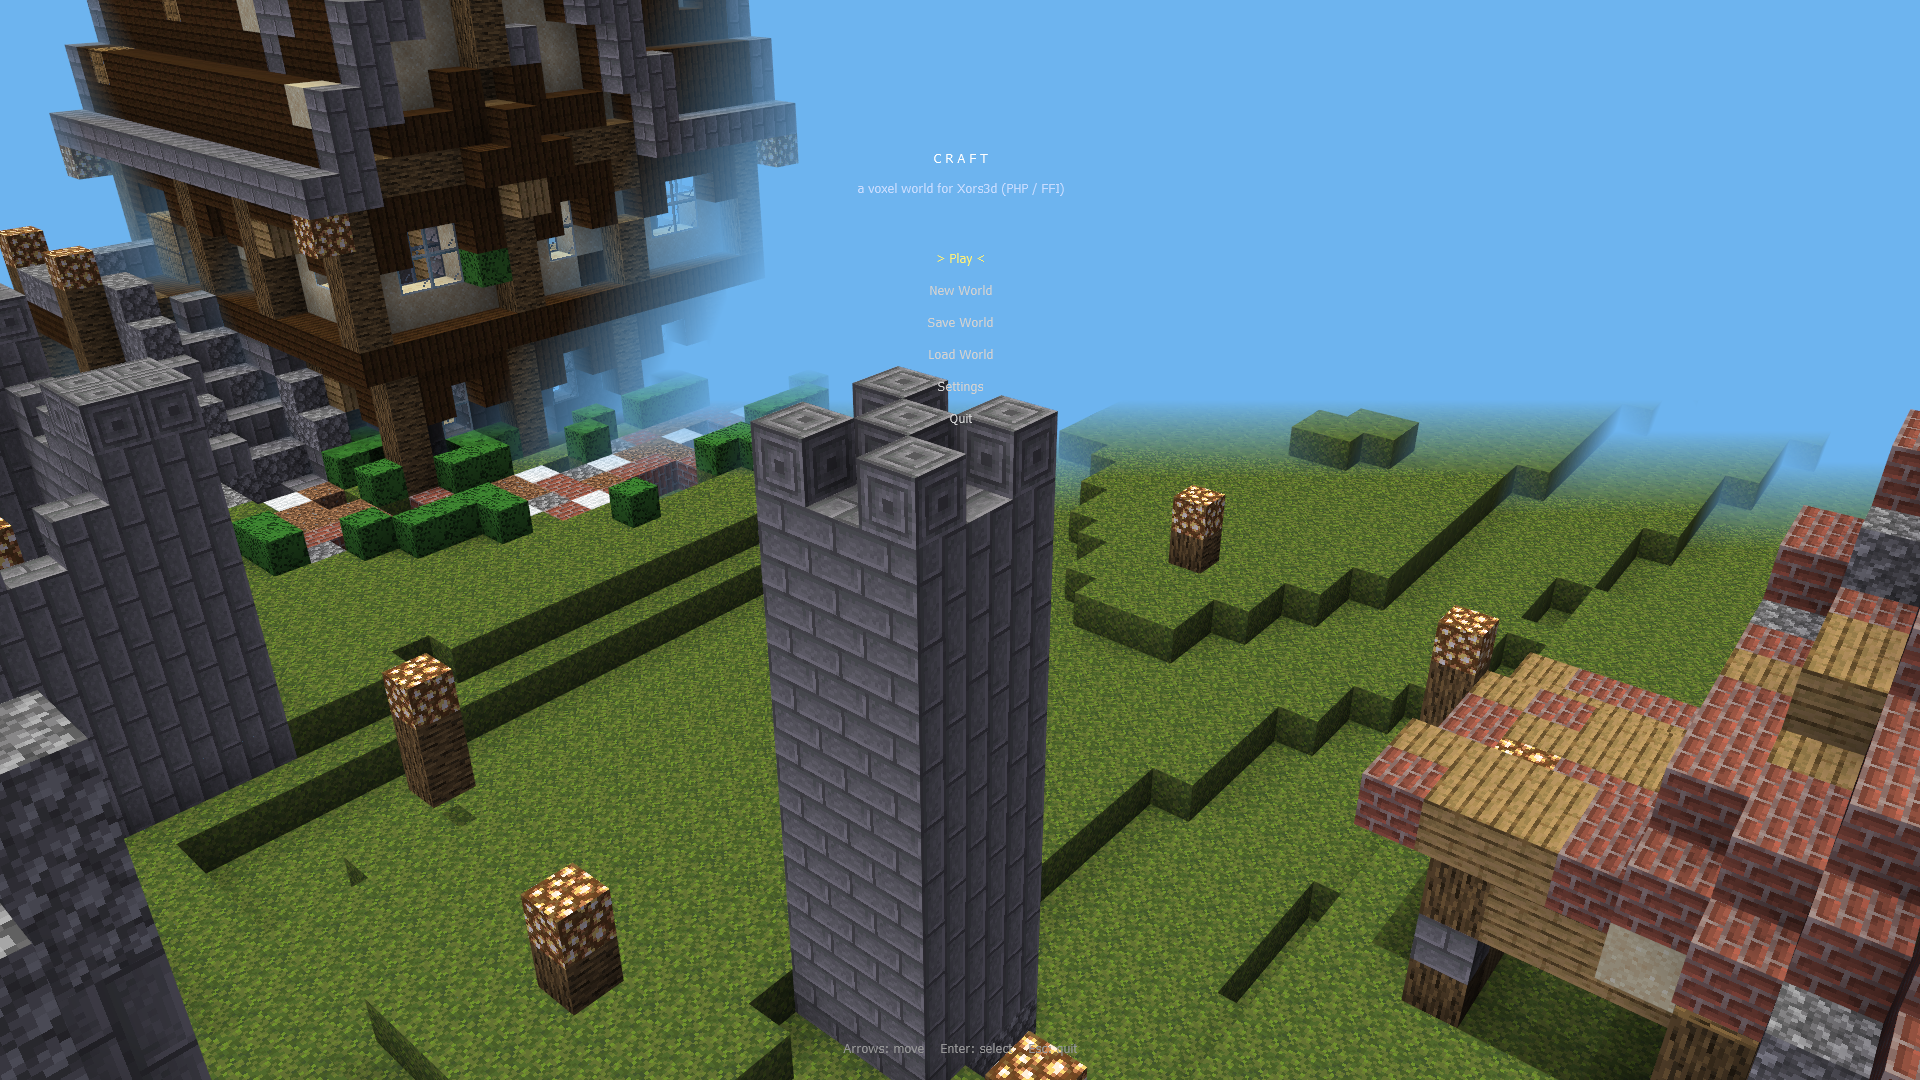
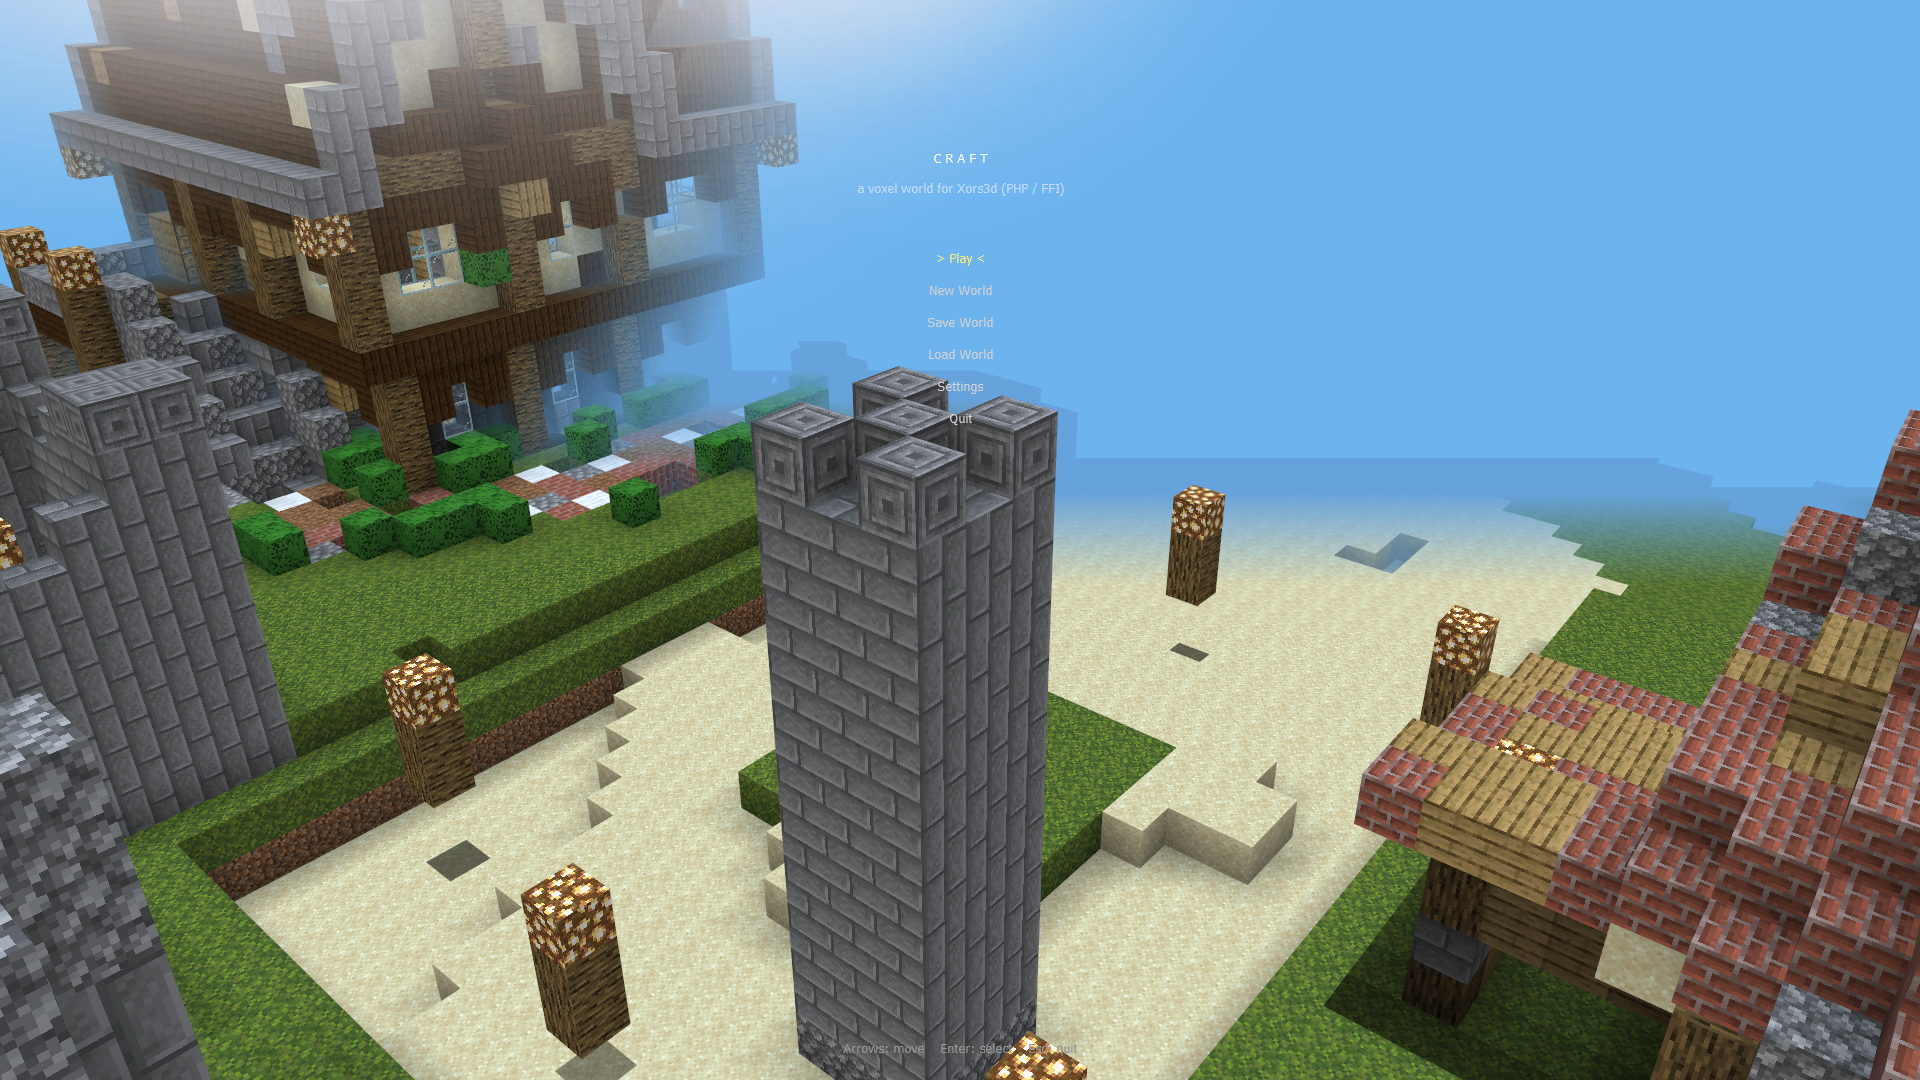
Add per-pixel block shader (Blocks.fx): soft half-Lambert sun + hemispheric ambient + depth fog, with GPU-validation fallback and toggle

diff --git a/xors3d-php/src/Controllers/Craft/BlockShader.php b/xors3d-php/src/Controllers/Craft/BlockShader.php
@@ -1,0 +1,110 @@
+<?php
+
+declare(strict_types=1);
+
+namespace Xors3D\Controllers\Craft;
+
+use Xors3D\Ffi\Constants;
+use Xors3D\Ffi\Engine;
+
+/**
+ * Per-pixel block shader (assets/shaders/Blocks.fx) for the chunk meshes: soft
+ * half-Lambert directional sun + hemispheric ambient + depth fog, multiplied by the
+ * baked vertex colour (ambient occlusion + skylight + torch glow). Gives the voxels
+ * a soft, lit look instead of flat vertex colour.
+ *
+ * Falls back to fixed-function FX_VERTEXCOLOR if the GPU can't run the technique
+ * (validated once at setup) or the player turns it off. Mixed into MinecraftController.
+ */
+trait BlockShader
+{
+    /** Load + validate the block shader; sets $this->blockOK / $this->blockShade. */
+    private function setupBlockFX(Engine $e): void
+    {
+        $this->blockOK = false;
+        $fx = dirname(__DIR__, 3) . '/assets/shaders/Blocks.fx';
+        if (is_file($fx)) {
+            $this->blockFX = $e->xLoadFXFile($fx);
+            if ($this->blockFX !== 0 && $e->xValidateEffectTechnique($this->blockFX, 'Block')) {
+                $this->blockOK = true;
+            }
+        }
+        $this->refreshBlockShade();
+        $this->computeBlockFXConsts();
+    }
+
+    /** Whether the shader is actually used right now (supported AND enabled). */
+    private function refreshBlockShade(): void
+    {
+        $this->blockShade = $this->blockOK && (int) ($this->settings['blockfx'] ?? 1) === 1;
+    }
+
+    /** Attach the shader to a freshly built chunk mesh (semantics + current constants). */
+    private function attachBlockFX(int $mesh): void
+    {
+        $e = $this->e;
+        $e->xSetEntityEffect($mesh, $this->blockFX);
+        $e->xSetEffectTechnique($mesh, 'Block');
+        $e->xSetEffectMatrixSemantic($mesh, 'MatWorldViewProj', Constants::WORLDVIEWPROJ);
+        $e->xSetEffectMatrixSemantic($mesh, 'MatWorld', Constants::WORLD);
+        $this->applyBlockFXConsts($mesh);
+    }
+
+    /** Push the cached lighting constants onto one chunk mesh. */
+    private function applyBlockFXConsts(int $mesh): void
+    {
+        $e = $this->e; $b = $this->bfx;
+        if ($b === []) { $this->computeBlockFXConsts(); $b = $this->bfx; }
+        $e->xSetEffectVector($mesh, 'SunDir', $b['sun'][0], $b['sun'][1], $b['sun'][2]);
+        $e->xSetEffectVector($mesh, 'SunClr', $b['sunc'][0], $b['sunc'][1], $b['sunc'][2]);
+        $e->xSetEffectVector($mesh, 'SkyAmb', $b['sky'][0], $b['sky'][1], $b['sky'][2]);
+        $e->xSetEffectVector($mesh, 'GndAmb', $b['gnd'][0], $b['gnd'][1], $b['gnd'][2]);
+        $e->xSetEffectVector($mesh, 'FogClr', $b['fog'][0], $b['fog'][1], $b['fog'][2]);
+        $e->xSetEffectVector($mesh, 'FogRange', $b['fogr'][0], $b['fogr'][1], 0.0);
+    }
+
+    /** Recompute sun direction / day-night colours / fog from the current sky state. */
+    private function computeBlockFXConsts(): void
+    {
+        $e = $this->e;
+        // direction TO the sun = opposite of the directional light's forward vector
+        $e->xTFormVector(0.0, 0.0, 1.0, $this->sun, 0);
+        $fx = $e->xTFormedX(); $fy = $e->xTFormedY(); $fz = $e->xTFormedZ();
+        $len = sqrt($fx * $fx + $fy * $fy + $fz * $fz) ?: 1.0;
+        $sun = [-$fx / $len, -$fy / $len, -$fz / $len];
+
+        $d = max(0.0, min(1.0, $this->dayF)); // 0 night .. 1 noon
+        $lerp = static fn (array $a, array $b, float $t): array => [
+            $a[0] + ($b[0] - $a[0]) * $t, $a[1] + ($b[1] - $a[1]) * $t, $a[2] + ($b[2] - $a[2]) * $t,
+        ];
+        // wetness (overcast) mutes the sun and greys the ambient a little
+        $wet = 1.0 - 0.45 * max(0.0, min(1.0, $this->wetness));
+
+        $sunc = $lerp([0.16, 0.19, 0.30], [1.0, 0.95, 0.82], $d);
+        $sunc = [$sunc[0] * 0.62 * $wet, $sunc[1] * 0.62 * $wet, $sunc[2] * 0.62 * $wet];
+        $sky  = $lerp([0.13, 0.15, 0.23], [0.54, 0.62, 0.74], $d);
+        $gnd  = $lerp([0.08, 0.09, 0.13], [0.42, 0.39, 0.34], $d);
+        $fog  = $lerp([0.06, 0.08, 0.16], [0.45, 0.72, 0.96], $d);
+
+        $dist = (float) ((int) $this->settings['renderDist']) * self::BLOCK;
+        $this->bfx = [
+            'sun' => $sun, 'sunc' => $sunc, 'sky' => $sky, 'gnd' => $gnd,
+            'fog' => $fog, 'fogr' => [$dist * 0.85, $dist * 0.98],
+        ];
+    }
+
+    /**
+     * Refresh the (slowly changing) day/night constants on all visible chunk meshes.
+     * Throttled - the values drift with the sun, so a few times a second is plenty and
+     * keeps the per-entity constant writes off the hot path.
+     */
+    private function updateBlockFX(): void
+    {
+        if (!$this->blockShade) { return; }
+        $now = $this->e->xMillisecs();
+        if ($this->bfxMs !== 0 && $now - $this->bfxMs < 120 && $now >= $this->bfxMs) { return; }
+        $this->bfxMs = $now;
+        $this->computeBlockFXConsts();
+        foreach ($this->chunkMesh as $mesh) { $this->applyBlockFXConsts($mesh); }
+    }
+}

diff --git a/xors3d-php/src/Controllers/MinecraftController.php b/xors3d-php/src/Controllers/MinecraftController.php
@@ -6,6 +6,7 @@ namespace Xors3D\Controllers;
 
 use Xors3D\Controllers\Craft\Assets;
 use Xors3D\Controllers\Craft\Bed;
+use Xors3D\Controllers\Craft\BlockShader;
 use Xors3D\Controllers\Craft\Chunks;
 use Xors3D\Controllers\Craft\Effects;
 use Xors3D\Controllers\Craft\Furnace;
@@ -62,6 +63,7 @@ final class MinecraftController extends Controller
     use Bed;        // sleep (B) at night near a bed to skip to morning (src/Controllers/Craft/)
     use Furnace;    // smelting menu (sand->glass etc) with fuel (src/Controllers/Craft/)
     use Minimap;    // top-right surface minimap (src/Controllers/Craft/)
+    use BlockShader; // per-pixel soft block lighting shader (src/Controllers/Craft/)
 
     public const TITLE = 'Minecraft-like game (menu, walk, water, sound)';
 
@@ -165,7 +167,7 @@ final class MinecraftController extends Controller
         'width' => 1024, 'height' => 768, 'vsync' => 1,
         'sensitivity' => 0.5, 'invertY' => 0, 'fov' => 1.0,
         'fog' => 1, 'daynight' => 1, 'volume' => 0.8, 'renderDist' => 48,
-        'bloom' => 0, 'godrays' => 1, 'weather' => 1, 'survival' => 1, 'minimap' => 0, 'aoshade' => 1,
+        'bloom' => 0, 'godrays' => 1, 'weather' => 1, 'survival' => 1, 'minimap' => 0, 'aoshade' => 1, 'blockfx' => 1,
         'worldSize' => 96, 'trees' => 1.0, 'water' => 1, 'mobs' => 8,
     ];
 
@@ -179,6 +181,7 @@ final class MinecraftController extends Controller
         ['key' => 'survival',    'label' => 'Survival (health)',  'type' => 'bool'],
         ['key' => 'minimap',     'label' => 'Minimap',           'type' => 'bool'],
         ['key' => 'aoshade',     'label' => 'Block shading (AO)', 'type' => 'bool'],
+        ['key' => 'blockfx',     'label' => 'Block shader (soft light)', 'type' => 'bool'],
         ['key' => 'bloom',       'label' => 'Bloom (shader)',    'type' => 'bool'],
         ['key' => 'godrays',     'label' => 'Sun rays (shader)', 'type' => 'bool'],
         ['key' => 'volume',      'label' => 'Sound volume',      'type' => 'float', 'min' => 0.0, 'max' => 1.0, 'step' => 0.1],
@@ -307,6 +310,14 @@ final class MinecraftController extends Controller
     private int $bloomFX = 0;
     private bool $bloomOK = false;
 
+    // per-pixel block shader
+    private int $blockFX = 0;
+    private bool $blockOK = false;   // GPU can run the technique
+    private bool $blockShade = false; // shader is on (supported + enabled)
+    private int $bfxMs = 0;          // throttle for constant refresh
+    /** @var array<string,mixed> cached block-shader lighting constants */
+    private array $bfx = [];
+
     // god-rays post-effect (shader)
     private int $godPoly = 0;
     private int $godTex = 0;
@@ -373,6 +384,7 @@ final class MinecraftController extends Controller
         $this->loadSounds($e);
         $this->setupBloom($e);
         $this->setupGodRays($e);
+        $this->setupBlockFX($e);
         $this->applySettings();
         $this->rebuildWorld();
 
@@ -510,6 +522,7 @@ final class MinecraftController extends Controller
             $e->xTurnEntity($this->hand, 0, 1.5 * $this->dt, 0);
             $this->updateSky();
             $this->updateSkyObjects();
+            $this->updateBlockFX();
             $this->updateWeather();
             $this->updatePuddles();
             $this->updateParticles();

diff --git a/xors3d-php/src/Controllers/Craft/Chunks.php b/xors3d-php/src/Controllers/Craft/Chunks.php
@@ -168,7 +168,10 @@ trait Chunks
                         $nrm = [0.0, 0.0, 0.0]; $nrm[$d] = ($c > 0) ? 1.0 : -1.0;
                         // Directional face shading (top brightest, sides dimmer, bottom darkest):
                         // this is what makes plain cubes read as 3D under vertex-colour lighting.
-                        if ($d === 1)      { $dir = ($c > 0) ? 1.0 : 0.5; } // +Y top / -Y bottom
+                        // With the per-pixel block shader on, the shader does smooth directional
+                        // lighting instead, so we bake a flat 1.0 here (AO/skylight/torch stay).
+                        if ($this->blockShade) { $dir = 1.0; }
+                        elseif ($d === 1)  { $dir = ($c > 0) ? 1.0 : 0.5; } // +Y top / -Y bottom
                         elseif ($d === 2)  { $dir = 0.8; }                  // Z sides
                         else               { $dir = 0.62; }                 // X sides
                         // per-corner colour = baked skylight * face direction * ambient occlusion
@@ -301,7 +304,11 @@ trait Chunks
         $this->bakeBlockLite($x0, $z0);            // glowstone glow baked into vertex colours
         $mesh = $e->xCreateMesh();
         $this->greedyMesh($mesh, $x0, $z0, $yMax); // sets its own vertex normals + double winding
-        $e->xEntityFX($mesh, Constants::FX_VERTEXCOLOR); // use baked skylight vertex colours
+        if ($this->blockShade) {
+            $this->attachBlockFX($mesh);                 // per-pixel soft lighting shader
+        } else {
+            $e->xEntityFX($mesh, Constants::FX_VERTEXCOLOR); // fallback: baked vertex colours
+        }
         $e->xEntityPickMode($mesh, 2);
 
         $list = [];
@@ -330,6 +337,8 @@ trait Chunks
             foreach ($this->chunkCache[$ck] as $h) { $e->xShowEntity($h); }
             unset($this->chunkCache[$ck]);
             $this->loaded[$ck] = true;
+            // refresh shader lighting on the revealed mesh (its constants went stale while hidden)
+            if ($this->blockShade && isset($this->chunkMesh[$ck])) { $this->applyBlockFXConsts($this->chunkMesh[$ck]); }
             return;
         }
         $this->loaded[$ck] = true;

diff --git a/xors3d-php/src/Controllers/Craft/Ui.php b/xors3d-php/src/Controllers/Craft/Ui.php
@@ -78,6 +78,14 @@ trait Ui
         if ($this->ambCh !== 0) {
             $this->e->xChannelVolume($this->ambCh, (float) $this->settings['volume'] * 0.6);
         }
+        // block shader on/off changes both the mesh effect and the baked shading, so
+        // rebuild loaded chunks (and drop the cache) when it toggles.
+        $prevShade = $this->blockShade;
+        $this->refreshBlockShade();
+        if ($this->blockShade !== $prevShade && $this->chunkMesh !== []) {
+            $this->clearChunkCache();
+            $this->remeshLoaded();
+        }
         $this->applyRenderDist();
     }
 
@@ -227,6 +235,7 @@ trait Ui
         $e->xPointEntity($this->camH, $this->pivot);
         $this->updateSky();
         $this->updateSkyObjects();
+        $this->updateBlockFX();
         $this->animateWater();
         $this->streamMobs();
         $this->updateMobs();
